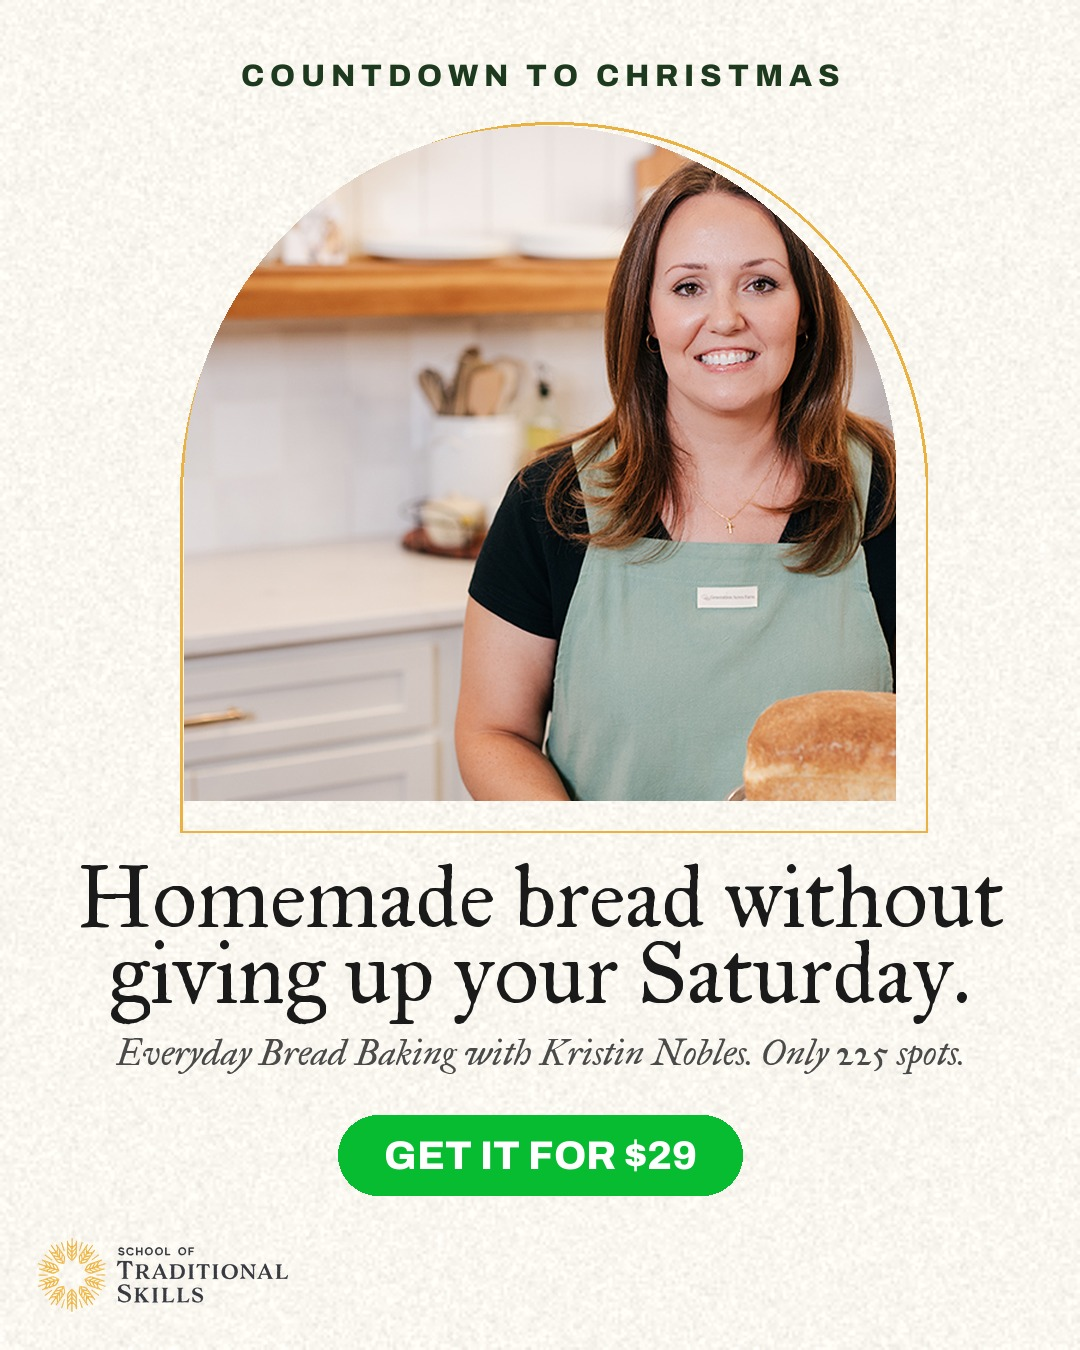
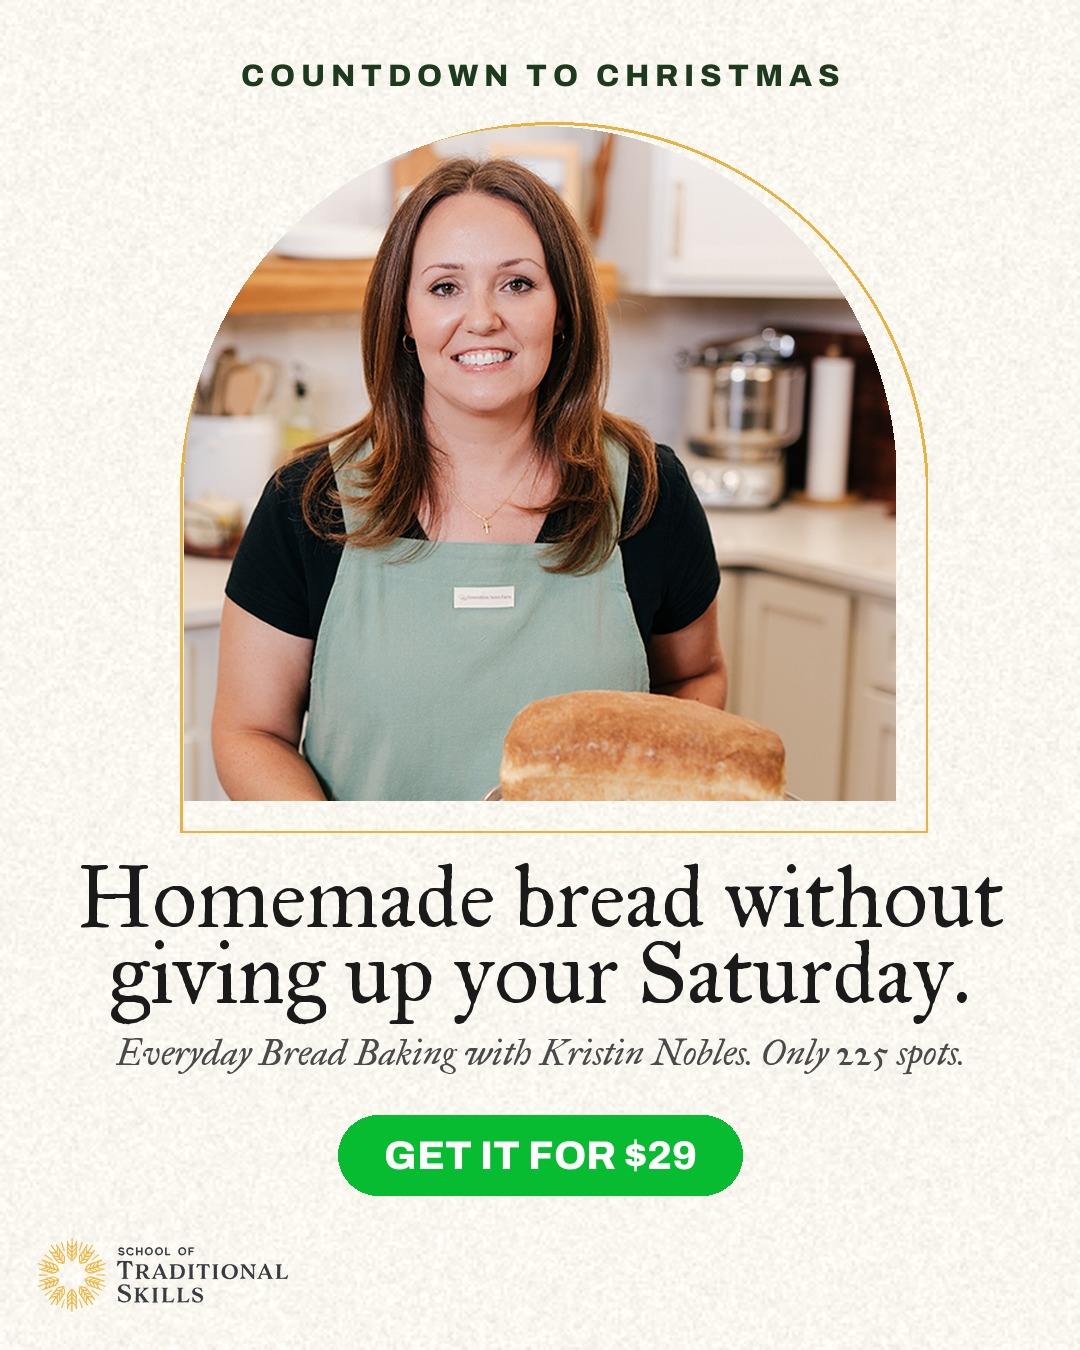
People at full brightness and centred: sts2723, sts2730, sts2731

Changed region(s): [[0.1528, 0.0933, 0.8556, 0.5911]]

diff --git a/index.html b/index.html
@@ -35,7 +35,7 @@ details .sheet{width:100%;margin-top:8px;border-radius:6px} figure{margin:0} fig
   <div class=fb tabindex=0>
    <div class=hd><div class=av><img src="class-images-web/sts-icon-gold.png" alt=""></div><div><b>School of Traditional Skills</b><br><span>Sponsored</span></div></div>
    <div class=pt>When the whole family starts coughing in December, do you reach for the drugstore aisle every single time?<br><br>Those remedies<span class=more> ...See more</span><span class=rest> add up fast, they&#x27;re not always on the shelf when you need them, and it can leave you feeling like you&#x27;re guessing in your own home. Families shouldn&#x27;t have to depend on a store shelf to care for each other.<br><br>A couple of years ago, Carolyn and I invited Doc Jones to walk through our herb garden here in northern Idaho. He pointed out plant after plant he uses in his own clinic, and honestly it was a really, really eye-opening afternoon.<br><br>Doc teaches Herbal Cold and Flu Remedies step by step: 16 herbs, how to grow or forage them, and how to dose them safely. You don&#x27;t need all 16, just start with what you have. Get the class for $29 (usually $199), only 225 spots.</span></div>
-   <img class=hero src="renders-sb102/sts2723_winter-medicine-cabinet-announcement-product-sb102-v01.jpg" alt="">
+   <img class=hero src="renders-sb102/sts2723_winter-medicine-cabinet-wave-panel-product-sb102-v01.jpg" alt="">
    <div class=ft><div><div class=url>SCHOOLOFTRADITIONALSKILLS.COM</div><div class=hl>A Winter Medicine Cabinet You Trust</div><div class=ds>Get Doc Jones&#x27; class for $29 while spots last.</div></div><div class=btn>Shop Now</div></div>
   </div>
   <div class=notes>
@@ -161,7 +161,7 @@ details .sheet{width:100%;margin-top:8px;border-radius:6px} figure{margin:0} fig
   <div class=fb tabindex=0>
    <div class=hd><div class=av><img src="class-images-web/sts-icon-gold.png" alt=""></div><div><b>School of Traditional Skills</b><br><span>Sponsored</span></div></div>
    <div class=pt>Ever bite into grocery store chicken and wonder what it&#x27;s supposed to taste like?<br><br>It&#x27;s like a tomato shipped halfway across<span class=more> ...See more</span><span class=rest> the country. And raising your own sounds great until you think about butchering day and feel completely out of your depth. Good food shouldn&#x27;t be something only big farms can make.<br><br>Over the years my family has raised thousands of meat birds, and there&#x27;s a world of difference between a bird that&#x27;s had grass to scratch in and what you find in the store.<br><br>Justin Rhodes takes you from &#x27;where do I even start&#x27; to dinner on the table, step by step: chicks, pasture, butchering day done humanely, and the freezer. It&#x27;s really, really doable. Get it for $29 (usually $199), only 225 spots.</span></div>
-   <img class=hero src="renders-sb102/sts2730_chicken-should-taste-title-card-product-sb102-v01.jpg" alt="">
+   <img class=hero src="renders-sb102/sts2730_chicken-should-taste-corner-caption-product-sb102-v01.jpg" alt="">
    <div class=ft><div><div class=url>SCHOOLOFTRADITIONALSKILLS.COM</div><div class=hl>Pastured Chicken From Your Own Yard</div><div class=ds>Get Justin&#x27;s class for $29 while spots last.</div></div><div class=btn>Shop Now</div></div>
   </div>
   <div class=notes>
